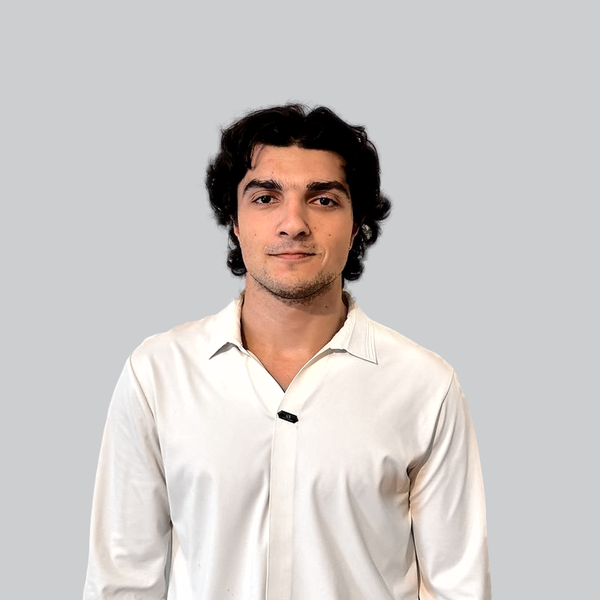
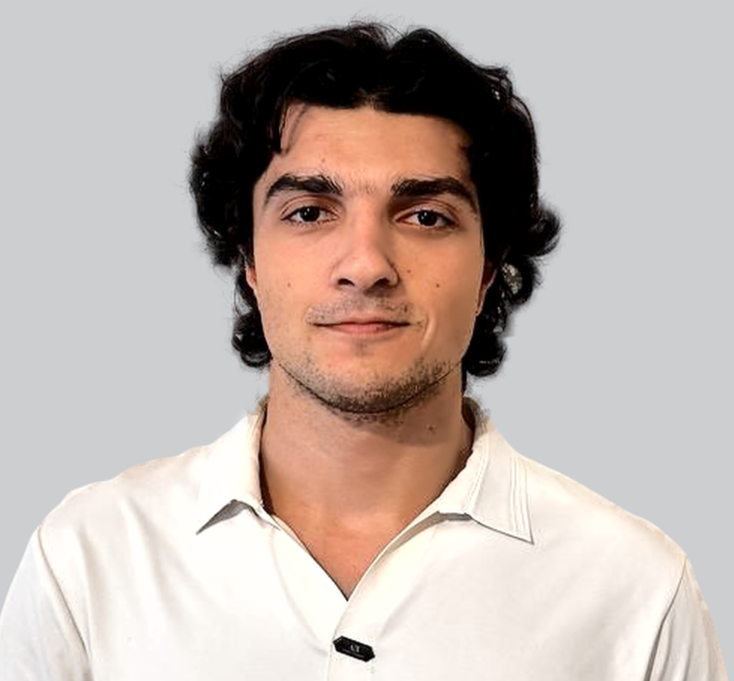
Site content, oval portrait, and theme overrides

diff --git a/assets/css/style.scss b/assets/css/style.scss
@@ -4,7 +4,9 @@
 @import "{{ site.theme }}";
 
 header img {
-  border-radius: 50%;
+  width: 100%;
+  max-width: 270px;
   aspect-ratio: 1 / 1;
   object-fit: cover;
+  border-radius: 50%;
 }

diff --git a/README.md b/README.md
@@ -1,69 +1,46 @@
 # Taleh Malikov | HCI MS student
 
-[CV](https://drive.google.com/file/d/1seiBc8jvrxh-K9OGOiQ46J4EmxEAjkUj/view?usp=sharing) &nbsp; [GitHub](https://github.com/talehmalikov) &nbsp; [Twitter](https://x.com/tmlikov) &nbsp; [LinkedIn](https://www.linkedin.com/in/talehmalikov/) &nbsp; [Email](mailto:tmalikov@uchicago.edu)
+[CV  ](https://drive.google.com/file/d/1seiBc8jvrxh-K9OGOiQ46J4EmxEAjkUj/view?usp=sharing)      [GitHub  ](https://github.com/talehmalikov)      [Twitter  ](https://x.com/tmlikov)      [LinkedIn  ](https://www.linkedin.com/in/talehmalikov/)
 
-Taleh Malikov is a Computer Science M.S. student at the University of Chicago and a research
-assistant in the [Human Computer Integration Lab](http://lab.plopes.org), advised by
-[Professor Pedro Lopes](http://lab.plopes.org).
+Taleh Malikov is a Computer Science M.S. student at University of Chicago and a research assistant in the [Human Computer Integration Lab](http://lab.plopes.org), directed by Professor Pedro Lopes. 
 
-His work focuses on interfaces for systems that act through the body rather than alongside it —
-currently on making an embodied AI model's motor intent visible and inspectable without requiring
-a participant wired to stimulation hardware. Before UChicago he spent three years building
-production distributed systems, including a national health insurance platform serving 200+
-hospitals; that background shapes what he wants to study, since interactive research is only as
-good as the infrastructure under it.
+His work focuses on Human-Computer Interaction. He builds interfaces for systems that act through the body rather than alongside it — currently on making an embodied AI model's motor intent visible and inspectable without requiring a participant wired to stimulation hardware.
 
----
+Before UChicago, Taleh spent three years building production distributed systems, including a national health insurance platform serving 200+ hospitals and over 10 million citizens.
 
-### Research
 
-<div style="display:flex;flex-wrap:wrap;gap:22px;align-items:flex-start;margin:22px 0 30px">
-  <img src="/assets/img/avatar.gif" alt="The avatar translating model output into joint motion" width="250" style="border:1px solid #e1e4e8;border-radius:3px;max-width:100%">
-  <div style="flex:1;min-width:260px">
-    <b>An avatar interface for embodied AI motor commands</b><br>
-    <b>Taleh Malikov</b>, Romain Nith, Pedro Lopes<br>
-    <i>Human Computer Integration Lab, University of Chicago, 2026</i><br><br>
-    Studying systems that communicate through the body normally requires a participant wired to
-    electrical muscle stimulation hardware before anyone can see what the model is doing. I built a
-    3D avatar that removes that dependency: it translates the model's output into skeletal joint
-    commands and renders the motion in a browser. Each command is checked against the anatomical
-    range of the joint it targets, and the interface shows the requested value beside the applied
-    one, so a motion the body could not perform reads as a visible constraint rather than an
-    impossible pose. It runs as the lab's public interface for this work, with a manual control
-    mode and a debug mode for stepping through a sequence command by command.<br><br>
-    <a href="https://avatar.plopes.org">Live interface</a> &nbsp;/&nbsp;
-    <a href="https://lab.plopes.org/">Lab</a>
-  </div>
-</div>
+## Research
+### An avatar interface for embodied AI motor commands
+**Taleh Malikov**, Romain Nith, Pedro Lopes. Human Computer Integration Lab, University of Chicago, 2026
 
----
+[live interface](https://avatar.plopes.org), [lab](https://lab.plopes.org/)
 
-### Teaching
+<video src="assets/media/avatar.mp4" autoplay loop muted playsinline width="100%"></video>
 
-**Teaching Assistant, Cloud Computing (Graduate)** — University of Chicago, Fall 2026
+Studying systems that communicate through the body normally requires a participant wired to electrical muscle stimulation hardware before anyone can see what the model is doing. I built a 3D avatar that removes that dependency: it translates the model's output into skeletal joint commands and renders the motion in a browser. Each command is checked against the anatomical range of the joint it targets, and the interface shows the requested value beside the applied one, so a motion the body could not perform reads as a visible constraint rather than an impossible pose. It runs as the lab's public interface for this work, with a manual control mode and a debug mode for stepping through a sequence command by command.
 
-**Instructor, introductory Python labs** — The Academy of Public Administration, 2021–2023. Weekly labs and office hours, 30 students.
 
----
+## Teaching
+### Teaching Assistant, Cloud Computing (Graduate)
+University of Chicago, Fall 2026
 
-### Before UChicago
+### Instructor, Introductory Python Labs
+The Academy of Public Administration, 2021–2023
 
-**Software Engineer**, The State Agency on Mandatory Health Insurance, 2023–2025. Three clinical
-microservices for a HIMSS-certified national hospital system serving 200+ hospitals and over 10
-million citizens. Owned two systems end to end, including a records pipeline integrating three
-government organizations through an inter-agency gateway.
 
-**IT Specialist**, The Academy of Public Administration, 2023. Proposed and led the Academy's
-first electronic library, directing a five-person team. Still in use.
+## Experience
+### Software Engineer
+The State Agency on Mandatory Health Insurance, 2023–2025
 
----
+Built three clinical microservices (registration, laboratory, radiology) for a HIMSS-certified national hospital system serving 200+ hospitals and over 10 million citizens. Owned two systems end to end, including a military conscript records pipeline integrating three government organizations through an inter-agency gateway with electronic signing.
 
-### Education
+### Information Technology Specialist
+The Academy of Public Administration, 2023
 
+Proposed and led the Academy's first electronic library — directed a five-person team, built the application and full API layer, and deployed it on Academy infrastructure. Still in active use.
+
+
+## Education
 **M.S. Computer Science**, University of Chicago, 2025–2027. Specialization in Artificial Intelligence.
 
 **B.S. Computer Science**, The Academy of Public Administration, 2024. 96.96/100, graduated with honors.
-
----
-
-<sub>Site template adapted from <a href="https://www.yunho.org/">Yun Ho</a>'s website.</sub>
